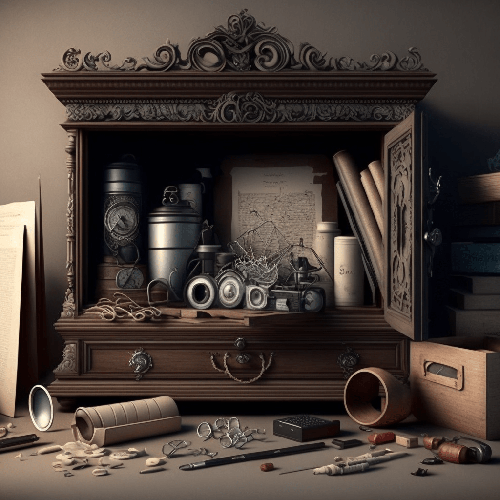
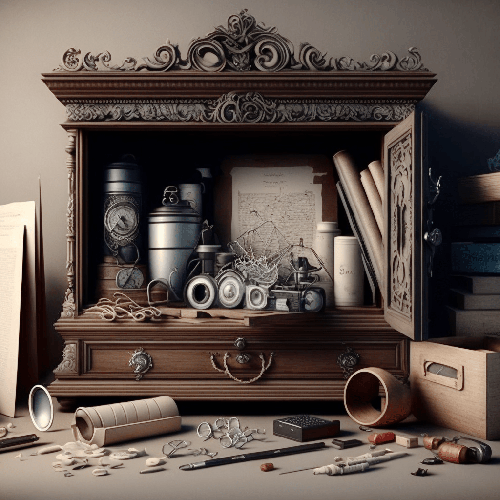
feat: add parents, lighten images

diff --git a/src/components/bubble-nav.tsx b/src/components/bubble-nav.tsx
@@ -1,6 +1,7 @@
 import { useMemo, useRef } from "react";
 import useComponentSize from "@rehooks/component-size";
 import {
+  getAncestors,
   getCurrentPage,
   getParent,
   getSiblings,
@@ -11,7 +12,7 @@ import { getCirclePoints } from "../modules/points-on-circle";
 import { Page, Point } from "../types/types";
 import { Bubble } from "./bubble";
 import { Defs } from "./defs";
-import { ChildCard } from "./child-card";
+import { ParentOrChildCard } from "./child-card";
 
 export type CirclePoint = {
   point: Point;
@@ -170,6 +171,23 @@ export const BubbleNav = ({
     }
   }, [currentPage, siteMap, center]);
 
+  const parentPage: Page | undefined = useMemo(() => {
+    if (currentPage && currentPage.url === siteMap.url) {
+      return undefined;
+    } else {
+      const parentPage = getParent(currentPage);
+      return parentPage;
+    }
+  }, [currentPage, siteMap]);
+
+  const ancestorPages: Page[] = useMemo(() => {
+    const ancestors = getAncestors(parentPage);
+    // Reverse the array so that the root page is first
+    return ancestors.reverse();
+  }, [parentPage]);
+
+  console.log("ancestor pages", ancestorPages);
+
   if (!currentPage) {
     return null;
   }
@@ -184,6 +202,19 @@ export const BubbleNav = ({
         margin: "auto",
       }}
     >
+      <div style={{ marginBottom: 30 }}>
+        {ancestorPages.map((page, i) => {
+          return (
+            <ParentOrChildCard
+              key={i}
+              page={page}
+              onClick={() => onBubbleClick(page.url)}
+              themeOverride={getTheme(currentPage).color}
+              type={"parent"}
+            />
+          );
+        })}
+      </div>
       <svg width={navWidth} height={height}>
         <Defs
           circleRadius={circle1Radius}
@@ -205,8 +236,8 @@ export const BubbleNav = ({
                 r={circle1Radius}
                 onClick={() => onBubbleClick(page.url)}
                 selected={page.url === currentUrl}
-                stroke={getTheme(page).color}
-                fill={shadeHexColor(themeColor, 0.3 * level)}
+                stroke={shadeHexColor(getTheme(page).color, -0.1)}
+                fill={shadeHexColor(themeColor, 0.25 * level)}
               />
               {isSelected && SHOW_CIRCLES_RIGHT && (
                 <>
@@ -243,7 +274,7 @@ export const BubbleNav = ({
             selected={centerCircle.page.url === currentUrl}
             fill={shadeHexColor(
               getTheme(currentPage).color,
-              getTheme(currentPage).level * 0.3
+              getTheme(currentPage).level * 0.25
             )}
           />
         )}
@@ -251,7 +282,7 @@ export const BubbleNav = ({
       <div style={{ marginTop: 30 }}>
         {circle2.map((x, i) => {
           return (
-            <ChildCard
+            <ParentOrChildCard
               key={i}
               page={x.page}
               onClick={() => {

diff --git a/src/components/child-card.tsx b/src/components/child-card.tsx
@@ -1,20 +1,30 @@
 import { getTheme } from "../modules/parse-objects";
 import { Page } from "../types/types";
-import { AngleRight } from "./icons";
+import { AngleLeft, AngleRight } from "./icons";
 
 type ChildCardProps = {
   page: Page;
   onClick: (url: string) => void;
+  themeOverride?: string;
+  type?: "parent" | "child";
 };
 
-export const ChildCard = ({ page, onClick }: ChildCardProps) => {
+export const ParentOrChildCard = ({
+  page,
+  themeOverride,
+  onClick,
+  type = "child",
+}: ChildCardProps) => {
   const theme = getTheme(page);
-  const { color: themeColor } = theme;
+  const { color } = theme;
+  const themeColor = themeOverride ? themeOverride : color;
+
   return (
     <button
       onClick={() => {
         onClick(page.url);
       }}
+      className="child-card__button"
       style={{
         width: "80%",
         marginLeft: "auto",
@@ -28,9 +38,11 @@ export const ChildCard = ({ page, onClick }: ChildCardProps) => {
         alignItems: "center",
       }}
     >
-      <div style={{ width: 18, height: 18 }}></div>
+      {type === "parent" && <AngleLeft color={"white"} size={16} />}
+      {type === "child" && <div style={{ width: 16, height: 16 }} />}
       <p className="child-card__page-label">{page.title}</p>
-      <AngleRight color={"white"} size={18} />
+      {type === "child" && <AngleRight color={"white"} size={16} />}
+      {type === "parent" && <div style={{ width: 16, height: 16 }} />}
     </button>
   );
 };

diff --git a/src/components/icons.tsx b/src/components/icons.tsx
@@ -30,3 +30,17 @@ export const AngleRight = ({ color, size = 24 }: IconProps) => {
     </svg>
   );
 };
+
+export const AngleLeft = ({ color, size = 24 }: IconProps) => {
+  return (
+    <svg
+      width={size}
+      height={size}
+      viewBox="0 0 320 512"
+      fill={color || "currentColor"}
+      xmlns="http://www.w3.org/2000/svg"
+    >
+      <path d="M9.4 233.4c-12.5 12.5-12.5 32.8 0 45.3l160 160c12.5 12.5 32.8 12.5 45.3 0s12.5-32.8 0-45.3L77.3 256l137.3-137.4c12.5-12.5 12.5-32.8 0-45.3s-32.8-12.5-45.3 0l-160 160z" />
+    </svg>
+  );
+};

diff --git a/src/modules/parse-objects.ts b/src/modules/parse-objects.ts
@@ -58,6 +58,18 @@ export const getParent = function (
   }
 };
 
+// Get all the ancestors of the current page
+export const getAncestors = function (currentPage: Page | undefined): Page[] {
+  if (currentPage === undefined) return [];
+  if (currentPage.parentPage === undefined) {
+    return [];
+  } else {
+    const parentPage = currentPage.parentPage;
+    const ancestors = getAncestors(parentPage);
+    return [parentPage, ...ancestors];
+  }
+};
+
 export const getTheme = function (
   currentPage: Page | undefined,
   startIndex = 0

diff --git a/src/App.tsx b/src/App.tsx
@@ -15,7 +15,7 @@ function App() {
 
   return (
     <div className="App">
-      <p>{currentUrl}</p>
+      <p style={{ marginBottom: 100 }}>{currentUrl}</p>
       <BubbleNav
         siteMap={sitemapWithParents}
         currentUrl={currentUrl}

diff --git a/src/App.css b/src/App.css
@@ -6,4 +6,9 @@ p.child-card__page-label {
   font-size: 0.9rem;
   font-weight: 400;
   color: white;
+  margin: 0;
+}
+
+button.child-card__button {
+  padding: 10px 10px;
 }
